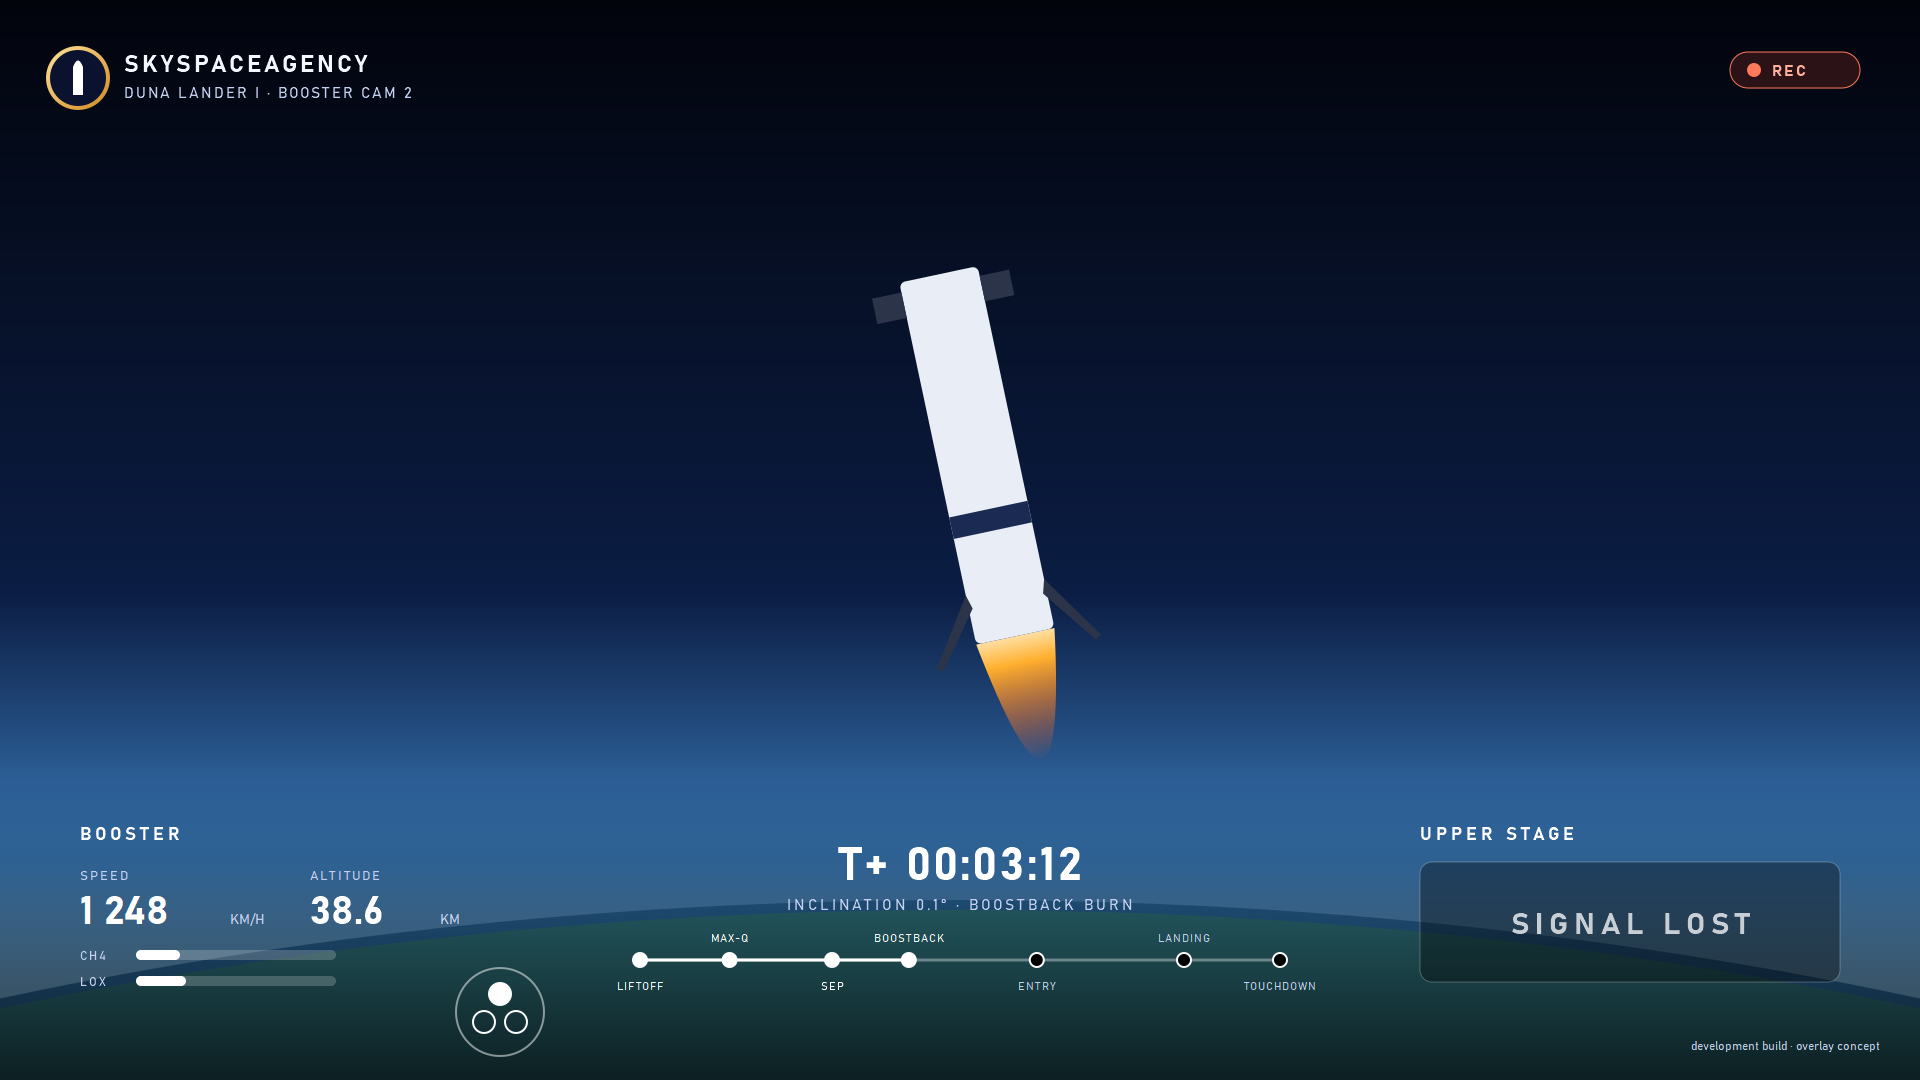
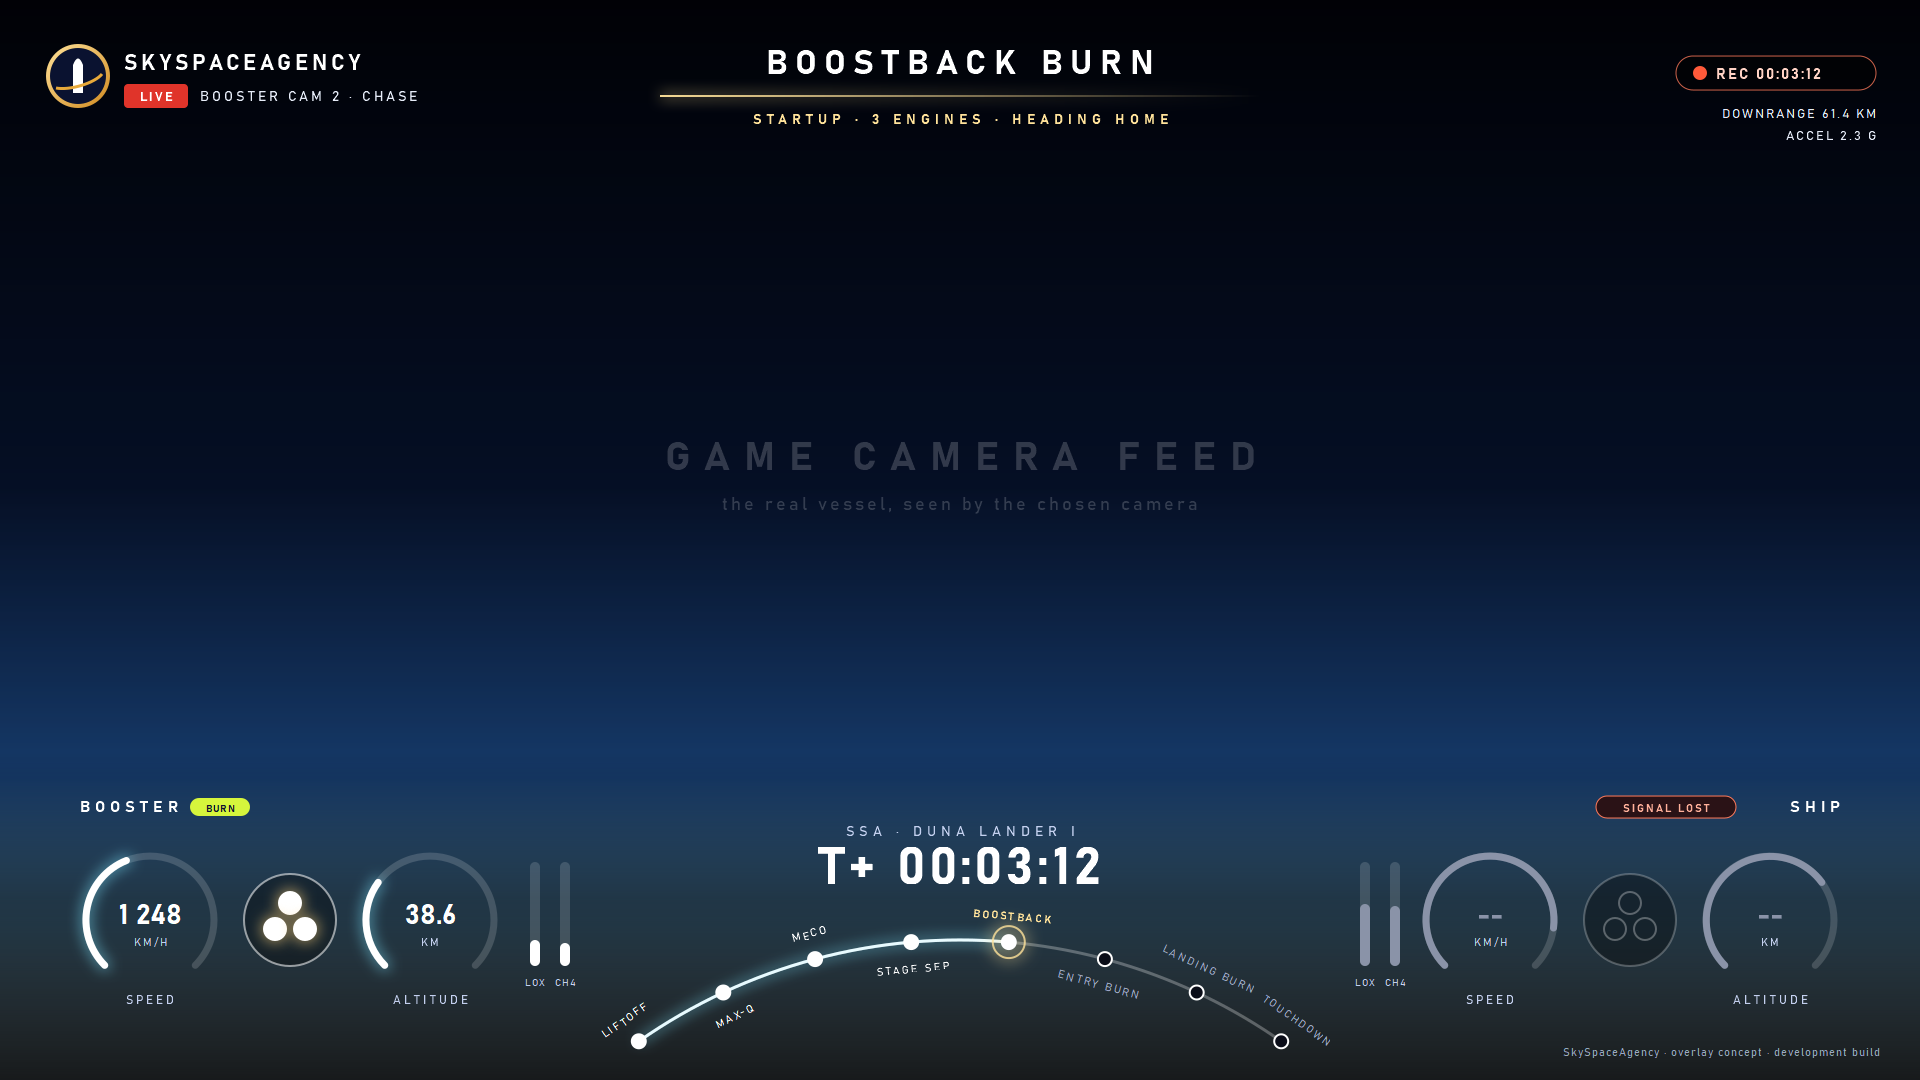
Design: webcast-style video overlay over a camera-feed stand-in

diff --git a/docs/design/ui/make_screens.py b/docs/design/ui/make_screens.py
@@ -336,7 +336,129 @@ def overlay():
     return s + "\n</svg>\n"
 
 
-for name, fn in [("orbit", orbit), ("rendezvous", rendezvous), ("return", ret), ("nodes", nodes), ("settings", settings), ("overlay", overlay)]:
+# ---------------------------------------------------------------- VIDEO OVERLAY, webcast style (v2)
+import math
+
+
+def arc(cx, cy, r, a0, a1):
+    # Arc path from angle a0 to a1 (degrees, 0 = right, clockwise on screen).
+    x0, y0 = cx + r * math.cos(math.radians(a0)), cy + r * math.sin(math.radians(a0))
+    x1, y1 = cx + r * math.cos(math.radians(a1)), cy + r * math.sin(math.radians(a1))
+    large = 1 if (a1 - a0) % 360 > 180 else 0
+    return f"M {x0:.1f} {y0:.1f} A {r} {r} 0 {large} 1 {x1:.1f} {y1:.1f}"
+
+
+def gauge(cx, cy, label, value, unit, frac, dim=False):
+    col = "#ffffff" if not dim else "#8a93a8"
+    s = f'<path d="{arc(cx, cy, 64, 135, 405)}" fill="none" stroke="#ffffff" stroke-opacity="0.16" stroke-width="7" stroke-linecap="round"/>'
+    if frac > 0:
+        a1 = 135 + 270 * frac
+        if not dim:
+            s += f'<path d="{arc(cx, cy, 64, 135, a1)}" fill="none" stroke="#7fe7ff" stroke-width="12" stroke-opacity="0.45" stroke-linecap="round" filter="url(#glow)"/>'
+        s += f'<path d="{arc(cx, cy, 64, 135, a1)}" fill="none" stroke="{col}" stroke-width="7" stroke-linecap="round"/>'
+    s += t(cx, cy + 4, value, 28, col, "middle", "700")
+    s += t(cx, cy + 26, unit, 11, "#c4d0ef", "middle", extra='letter-spacing="2"')
+    s += t(cx, cy + 84, label, 12, "#c4d0ef", "middle", extra='letter-spacing="3"')
+    return s
+
+
+def engines(cx, cy, lit, dim=False):
+    s = f'<circle cx="{cx}" cy="{cy}" r="46" fill="#000000" fill-opacity="0.35" stroke="#ffffff" stroke-opacity="{0.25 if dim else 0.55}" stroke-width="2"/>'
+    for j, (dx, dy) in enumerate([(0, -17), (-15, 9), (15, 9)]):
+        on = j < lit and not dim
+        if on:
+            s += f'<circle cx="{cx+dx}" cy="{cy+dy}" r="14" fill="#ffd27a" opacity="0.55" filter="url(#glow)"/>'
+        s += f'<circle cx="{cx+dx}" cy="{cy+dy}" r="11" fill="{"#ffffff" if on else "none"}" stroke="#ffffff" stroke-opacity="{0.3 if dim else 1}" stroke-width="2"/>'
+    return s
+
+
+def props(x, y, fills, dim=False):
+    s = ""
+    for i, (name, f) in enumerate(fills):
+        xx = x + i * 30
+        s += f'<rect x="{xx}" y="{y}" width="10" height="104" rx="5" fill="#ffffff" fill-opacity="0.15"/>'
+        h = 104 * f
+        s += f'<rect x="{xx}" y="{y+104-h:.0f}" width="10" height="{h:.0f}" rx="5" fill="{"#8a93a8" if dim else "#ffffff"}"/>'
+        s += t(xx + 5, y + 124, name, 10, "#c4d0ef", "middle", extra='letter-spacing="1"')
+    return s
+
+
+def overlay_v2():
+    W, H = 1920, 1080
+    s = f'<svg xmlns="http://www.w3.org/2000/svg" viewBox="0 0 {W} {H}" width="{W}" height="{H}" font-family="Bahnschrift, Segoe UI, Arial, sans-serif">\n'
+    s += '  <!-- SkySpaceAgency recording overlay concept, webcast style: the booster seen by its chase camera during the boostback, both vehicles, mission clock on an arc, event banner. -->\n'
+    s += """  <defs>
+    <linearGradient id="air" x1="0" y1="0" x2="0" y2="1"><stop offset="0" stop-color="#010208"/><stop offset="0.45" stop-color="#071431"/><stop offset="0.72" stop-color="#1d4d8c"/><stop offset="0.86" stop-color="#6fb3e0"/><stop offset="1" stop-color="#cfeaf7"/></linearGradient>
+    <radialGradient id="sunflare" cx="0.5" cy="0.5" r="0.5"><stop offset="0" stop-color="#fffbe8" stop-opacity="0.95"/><stop offset="0.15" stop-color="#ffe9b0" stop-opacity="0.5"/><stop offset="1" stop-color="#ffd27a" stop-opacity="0"/></radialGradient>
+    <radialGradient id="limb" cx="0.5" cy="0.5" r="0.5"><stop offset="0.9" stop-color="#9fdcff" stop-opacity="0"/><stop offset="0.965" stop-color="#bfeaff" stop-opacity="0.85"/><stop offset="1" stop-color="#bfeaff" stop-opacity="0"/></radialGradient>
+    <radialGradient id="ground" cx="0.45" cy="0.02" r="0.7"><stop offset="0" stop-color="#3a8ec0"/><stop offset="0.5" stop-color="#1f5f8f"/><stop offset="1" stop-color="#0b2a4a"/></radialGradient>
+    <linearGradient id="hull" x1="0" y1="0" x2="1" y2="0"><stop offset="0" stop-color="#6e7890"/><stop offset="0.35" stop-color="#f2f5fa"/><stop offset="0.6" stop-color="#ffffff"/><stop offset="1" stop-color="#7d889f"/></linearGradient>
+    <linearGradient id="soot" x1="0" y1="0" x2="0" y2="1"><stop offset="0" stop-color="#1a1d26" stop-opacity="0"/><stop offset="1" stop-color="#1a1d26" stop-opacity="0.75"/></linearGradient>
+    <linearGradient id="plume" x1="0" y1="0" x2="0" y2="1"><stop offset="0" stop-color="#ffffff"/><stop offset="0.12" stop-color="#fff2c2"/><stop offset="0.35" stop-color="#ffb02e" stop-opacity="0.9"/><stop offset="1" stop-color="#ff4d1a" stop-opacity="0"/></linearGradient>
+    <radialGradient id="plumeglow" cx="0.5" cy="0.3" r="0.6"><stop offset="0" stop-color="#ffd27a" stop-opacity="0.75"/><stop offset="1" stop-color="#ff7a1a" stop-opacity="0"/></radialGradient>
+    <radialGradient id="vignette" cx="0.5" cy="0.45" r="0.75"><stop offset="0.6" stop-color="#000000" stop-opacity="0"/><stop offset="1" stop-color="#000000" stop-opacity="0.7"/></radialGradient>
+    <linearGradient id="band" x1="0" y1="0" x2="0" y2="1"><stop offset="0" stop-color="#000000" stop-opacity="0"/><stop offset="0.45" stop-color="#000000" stop-opacity="0.55"/><stop offset="1" stop-color="#000000" stop-opacity="0.85"/></linearGradient>
+    <linearGradient id="gold" x1="0" y1="0" x2="1" y2="1"><stop offset="0" stop-color="#ffe29a"/><stop offset="1" stop-color="#d08a20"/></linearGradient>
+    <linearGradient id="bannerline" x1="0" y1="0" x2="1" y2="0"><stop offset="0" stop-color="#ffe29a" stop-opacity="0"/><stop offset="0.5" stop-color="#ffe29a"/><stop offset="1" stop-color="#ffe29a" stop-opacity="0"/></linearGradient>
+    <filter id="glow" x="-50%" y="-50%" width="200%" height="200%"><feGaussianBlur stdDeviation="6"/></filter>
+    <filter id="soft" x="-50%" y="-50%" width="200%" height="200%"><feGaussianBlur stdDeviation="18"/></filter>
+    <filter id="haze" x="-20%" y="-20%" width="140%" height="140%"><feGaussianBlur stdDeviation="3"/></filter>
+  </defs>
+"""
+    # ---- stand-in for the game camera feed (in game: the real booster, seen by the chosen camera)
+    s += f'<rect width="{W}" height="{H}" fill="url(#air)"/>'
+    s += f'<rect width="{W}" height="{H}" fill="#000000" fill-opacity="0.25"/>'
+    s += t(960, 470, "GAME CAMERA FEED", 40, "#ffffff", "middle", "700", 'letter-spacing="14" opacity="0.18"')
+    s += t(960, 510, "the real vessel, seen by the chosen camera", 18, "#ffffff", "middle", extra='letter-spacing="3" opacity="0.18"')
+    # ---- top: brand, LIVE, camera, event banner, small telemetry
+    s += '<circle cx="78" cy="76" r="30" fill="#0a1230" stroke="url(#gold)" stroke-width="4"/><path d="M 73 93 L 73 65 Q 78 52 83 65 L 83 93 Z" fill="#fff"/><path d="M 56 88 A 28 10 -15 0 0 102 74" fill="none" stroke="#e8a93a" stroke-width="3"/>'
+    s += t(124, 70, "SKYSPACEAGENCY", 22, "#ffffff", weight="700", extra='letter-spacing="4"')
+    s += f'<rect x="124" y="84" width="64" height="24" rx="4" fill="#e0342a"/>' + t(156, 101, "LIVE", 13, "#ffffff", "middle", "700", 'letter-spacing="2"')
+    s += t(200, 101, "BOOSTER CAM 2 · CHASE", 14, "#e6ecf8", extra='letter-spacing="3"')
+    s += f'<line x1="660" y1="96" x2="1260" y2="96" stroke="url(#bannerline)" stroke-width="2"/>'
+    s += f'<line x1="660" y1="96" x2="1260" y2="96" stroke="url(#bannerline)" stroke-width="8" stroke-opacity="0.35" filter="url(#glow)"/>'
+    s += t(960, 74, "BOOSTBACK BURN", 34, "#ffffff", "middle", "700", 'letter-spacing="8"')
+    s += t(960, 124, "STARTUP · 3 ENGINES · HEADING HOME", 14, "#ffe29a", "middle", "600", 'letter-spacing="5"')
+    s += f'<rect x="1676" y="56" width="200" height="34" rx="17" fill="#000000" fill-opacity="0.45" stroke="#ff7a5a" stroke-opacity="0.8"/><circle cx="1700" cy="73" r="7" fill="#ff5a3a"/>'
+    s += t(1716, 79, "REC 00:03:12", 15, "#ffd2c4", weight="600", extra='letter-spacing="2"')
+    s += t(1876, 118, "DOWNRANGE  61.4 KM", 13, "#e6ecf8", "end", extra='letter-spacing="2"') + t(1876, 140, "ACCEL  2.3 G", 13, "#e6ecf8", "end", extra='letter-spacing="2"')
+
+    # ---- bottom band
+    s += f'<rect y="{H-330}" width="{W}" height="330" fill="url(#band)"/>'
+    s += t(80, 812, "BOOSTER", 16, "#ffffff", weight="700", extra='letter-spacing="5"') + f'<rect x="190" y="798" width="60" height="18" rx="9" fill="#d6f53c"/>' + t(220, 812, "BURN", 10, "#0a1230", "middle", "700", 'letter-spacing="1"')
+    s += gauge(150, 920, "SPEED", "1 248", "KM/H", 0.42) + engines(290, 920, 3) + gauge(430, 920, "ALTITUDE", "38.6", "KM", 0.3)
+    s += props(530, 862, [("LOX", 0.25), ("CH4", 0.22)])
+    s += t(1840, 812, "SHIP", 16, "#ffffff", "end", "700", 'letter-spacing="5"')
+    s += gauge(1490, 920, "SPEED", "--", "KM/H", 0.86, True) + engines(1630, 920, 0, True) + gauge(1770, 920, "ALTITUDE", "--", "KM", 0.7, True)
+    s += props(1360, 862, [("LOX", 0.6), ("CH4", 0.58)], True)
+    s += f'<rect x="1596" y="796" width="140" height="22" rx="11" fill="#2a1216" stroke="#ff7a5a"/>' + t(1666, 812, "SIGNAL LOST", 11, "#ffb09a", "middle", "700", 'letter-spacing="2"')
+    s += t(960, 836, "SSA · DUNA LANDER I", 14, "#c4d0ef", "middle", extra='letter-spacing="5"')
+    s += t(960, 884, "T+ 00:03:12", 52, "#ffffff", "middle", "700", 'letter-spacing="4"')
+    cx, cy, r = 960, 1500, 560
+    s += f'<path d="{arc(cx, cy, r, 235, 305)}" fill="none" stroke="#ffffff" stroke-opacity="0.28" stroke-width="3"/>'
+    names = ["LIFTOFF", "MAX-Q", "MECO", "STAGE SEP", "BOOSTBACK", "ENTRY BURN", "LANDING BURN", "TOUCHDOWN"]
+    events = [(n, i / (len(names) - 1)) for i, n in enumerate(names)]
+    now = 4 / 7
+    s += f'<path d="{arc(cx, cy, r, 235, 235 + 70 * now)}" fill="none" stroke="#ffffff" stroke-width="3"/>'
+    s += f'<path d="{arc(cx, cy, r, 235, 235 + 70 * now)}" fill="none" stroke="#7fe7ff" stroke-width="8" stroke-opacity="0.4" filter="url(#glow)"/>'
+    for i, (e, f) in enumerate(events):
+        a = math.radians(235 + 70 * f)
+        x, y = cx + r * math.cos(a), cy + r * math.sin(a)
+        done = f <= now
+        cur = abs(f - now) < 1e-6
+        if cur:
+            s += f'<circle cx="{x:.1f}" cy="{y:.1f}" r="16" fill="none" stroke="#ffe29a" stroke-width="2" opacity="0.8"/><circle cx="{x:.1f}" cy="{y:.1f}" r="22" fill="#ffe29a" opacity="0.25" filter="url(#glow)"/>'
+        s += f'<circle cx="{x:.1f}" cy="{y:.1f}" r="7" fill="{"#ffffff" if done else "#0a0d18"}" stroke="#ffffff" stroke-width="2"/>'
+        deg = 235 + 70 * f + 90
+        rr = r + 22 if (i % 2 == 0 or i == len(events) - 1) else r - 30
+        lx, ly = cx + rr * math.cos(a), cy + rr * math.sin(a)
+        col = "#ffe29a" if cur else ("#ffffff" if done else "#9aa6c4")
+        s += f'<text x="0" y="0" transform="translate({lx:.1f} {ly:.1f}) rotate({deg:.1f})" font-size="11" fill="{col}" text-anchor="middle" letter-spacing="2" font-weight="{"700" if cur else "400"}">{e}</text>'
+    s += t(W - 40, H - 24, "SkySpaceAgency · overlay concept · development build", 11, "#9aa6c4", "end", extra='letter-spacing="1"')
+    return s + "\n</svg>\n"
+
+
+for name, fn in [("orbit", orbit), ("rendezvous", rendezvous), ("return", ret), ("nodes", nodes), ("settings", settings), ("overlay", overlay_v2)]:
     with open(name + ".svg", "w", encoding="utf-8") as f:
         f.write(fn())
 print("written")
